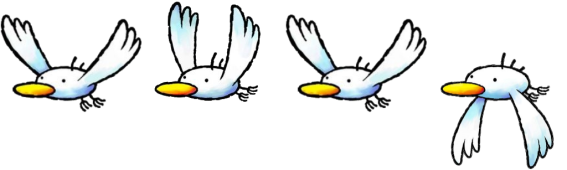
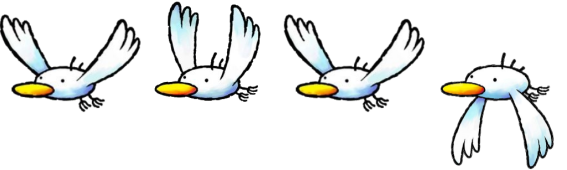
Bug fixed: Gameover New animation New code

Changed region(s): [[0.4797, 0.0882, 0.7795, 0.6765], [0.0, 0.0882, 0.2698, 0.6471]]

diff --git a/DeepRunner.py b/DeepRunner.py
@@ -31,6 +31,11 @@ clock = pygame.time.Clock()
 
 # sets intervall for obstacles
 
+
+global vogel
+vogel = "vogel_crf.png"
+# vogel = "vogel3.png"
+
 global startgamespeed
 startgamespeed = 4
 global gamespeed
@@ -298,7 +303,7 @@ class Snowman(pygame.sprite.Sprite):
 class Bird (pygame.sprite.Sprite):
     def __init__(self, gamespeed, sizex=-1, sizey=-1):
         pygame.sprite.Sprite.__init__(self, self.containers)
-        self.images, self.rect = load_sprite_sheet('vogel3.png', 4, 1, sizex, sizey, -1)
+        self.images, self.rect = load_sprite_sheet(vogel, 4, 1, sizex, sizey, -1)
         self.bird_height = [height * 0.80, height * 0.90]
         self.rect.bottom = self.bird_height[random.randrange(0, 2)]
         self.rect.left = width + self.rect.width
@@ -312,11 +317,14 @@ class Bird (pygame.sprite.Sprite):
 
     def update(self):
         if self.frame % 6 == 0:
-                # low birds have 1 frame of animation more
-                if self.rect.bottom == (height * 0.90):
+                # high birds have 1 frame of animation less for the old version
+                if vogel == "vogel3.png":
+                    if self.rect.bottom == (height * 0.90):
+                        self.index = (self.index + 1) % 4
+                    if self.rect.bottom != (height * 0.90):
+                        self.index = (self.index + 1) % 3
+                if vogel == "vogel_crf.png":
                     self.index = (self.index + 1) % 4
-                if self.rect.bottom != (height * 0.90):
-                    self.index = (self.index + 1) % 3
         self.image = self.images[self.index]
         self.rect = self.rect.move(self.movement)
         self.frame = (self.frame + 1)
@@ -628,7 +636,7 @@ def gameplay():
                 for event in pygame.event.get():
                     if event.type == pygame.QUIT:
                         gameQuit = True
-                        gameOver = True
+                        gameOver = False
 
                     if event.type == pygame.KEYDOWN:
 
@@ -652,5 +660,3 @@ def main():
         gameplay()
 
 main()
-
-
